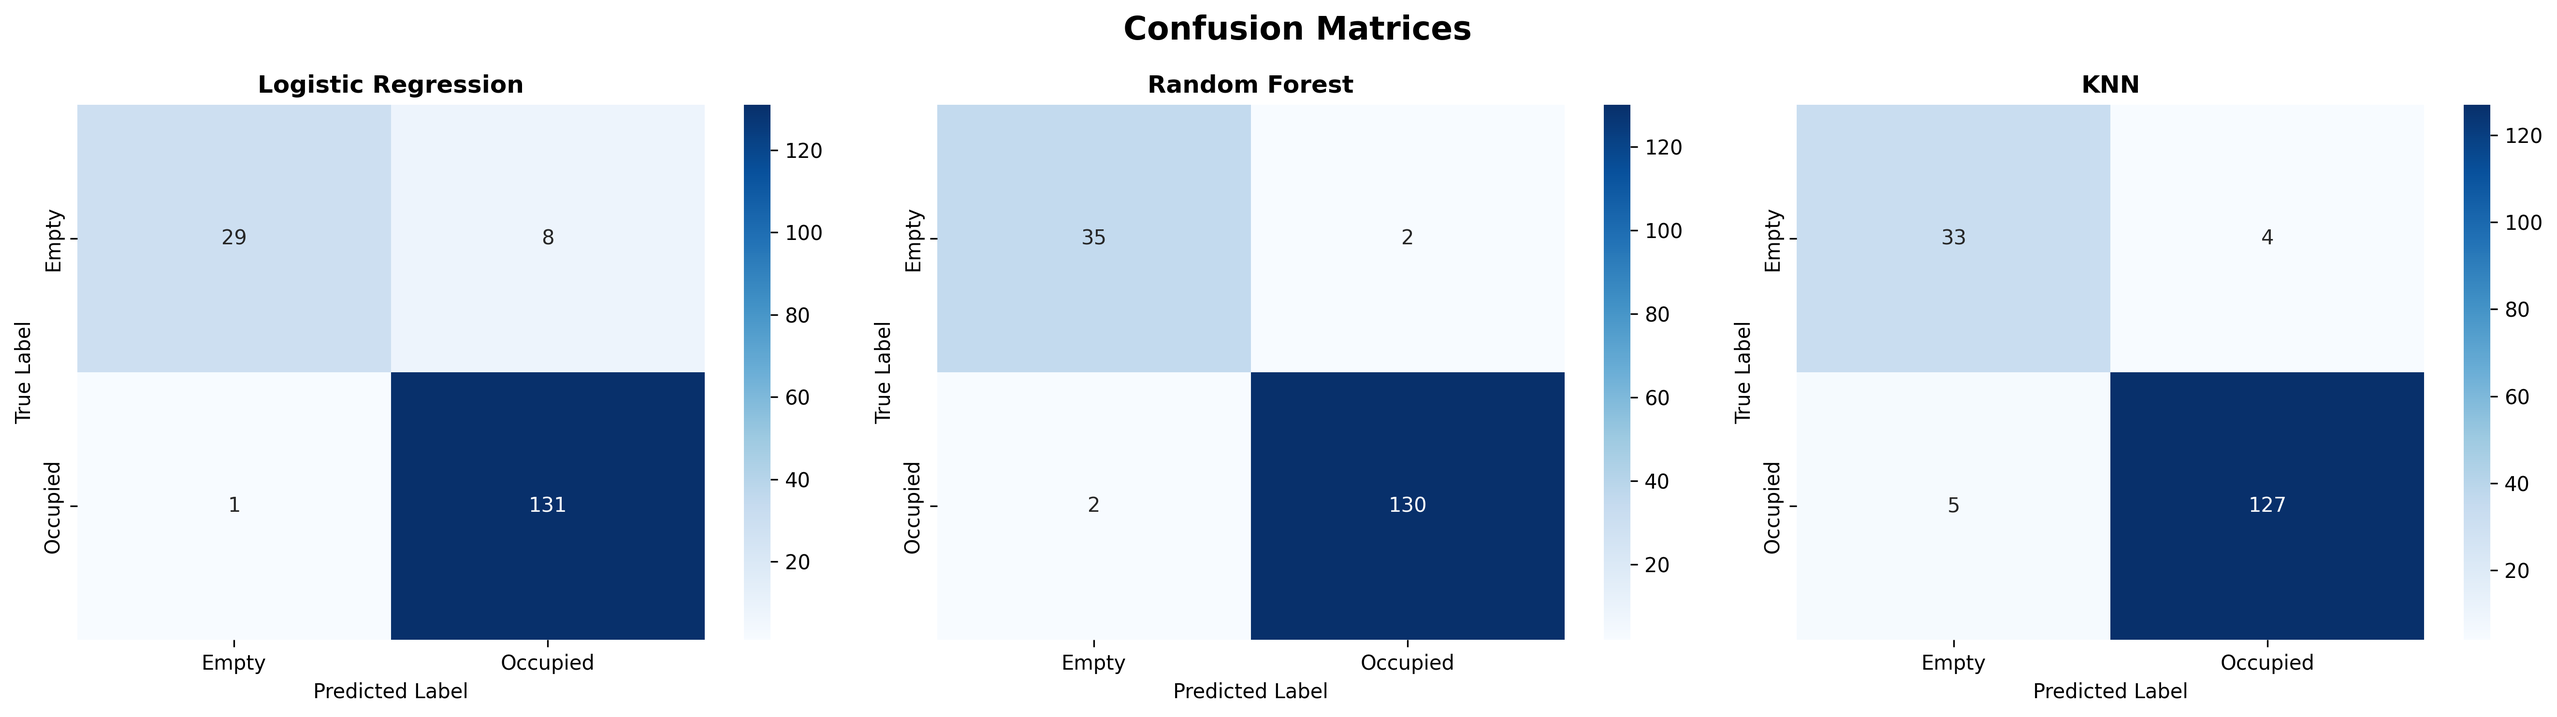
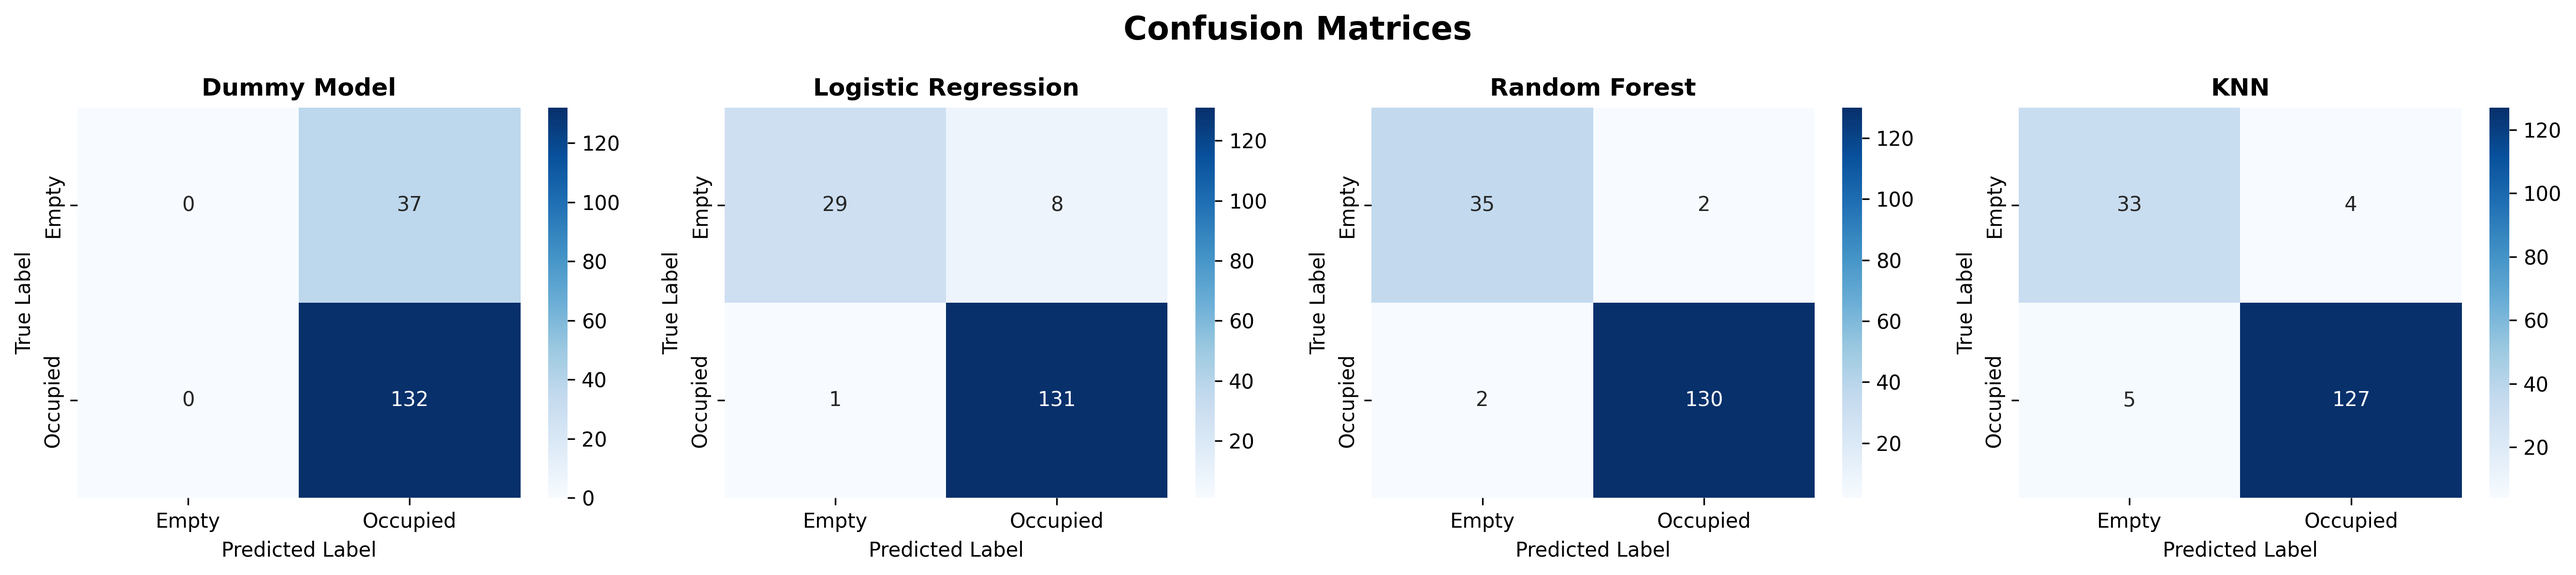
Added dummy classifier

diff --git a/Project/ml_and_evaluation.py b/Project/ml_and_evaluation.py
@@ -3,6 +3,7 @@ import numpy as np
 from sklearn.linear_model import LogisticRegression
 from sklearn.ensemble import RandomForestClassifier
 from sklearn.neighbors import KNeighborsClassifier
+from sklearn.dummy import DummyClassifier
 from sklearn.metrics import accuracy_score, precision_score, recall_score, f1_score
 from sklearn.metrics import confusion_matrix
 import matplotlib.pyplot as plt
@@ -59,6 +60,17 @@ class OccupancyMLTrainer:
     def train_models(self, best_params=None):
         """Train all ML models (optionally with tuned hyperparameters)"""
         print("\nTraining ML models:")
+
+        # Dummy Model
+        print("0-Training Dummy Model...")
+        dum_model = DummyClassifier(strategy='most_frequent', random_state=42) # This model always predicts the most common/majority class label, in this case 1
+        dum_model.fit(self.X_train, self.y_train)
+        self.models["Dummy Model"]=dum_model
+
+        y_pred_train = dum_model.predict(self.X_train)
+        y_pred_test = dum_model.predict(self.X_test)
+        print(f"Dummy model is trained, for baseline perofrmance.\
+              \nAccuracy -> {accuracy_score(self.y_test, y_pred_test)} F1-Score -> {f1_score(self.y_test, y_pred_test)}")
 
         # Logistic Regression
         print("1-Training Logistic Regression...")
@@ -118,7 +130,8 @@ class OccupancyMLTrainer:
                     n_jobs=-1
                 ),
                 'params': {
-                    'max_depth': [6, 8, 10],
+                    'max_depth': [6, 8, 10, 12],
+                    # 'n_estimators': [30, 50, 70],
                     'min_samples_split': [2, 5],
                     'min_samples_leaf': [1, 2]
                 }
@@ -427,7 +440,7 @@ class OccupancyMLTrainer:
         plt.close()
         
         # 2.Confusion matrices
-        fig, axes = plt.subplots(1, 3, figsize=(18, 5))
+        fig, axes = plt.subplots(1, 4, figsize=(18, 4))
         fig.suptitle('Confusion Matrices', fontsize=16, fontweight='bold')
         
         for idx, (model_name, results) in enumerate(self.results.items()):
@@ -492,6 +505,8 @@ class OccupancyMLTrainer:
 
             plt.tight_layout()
             plt.savefig(f'{output_dir}/feature_importance.png', dpi=300, bbox_inches='tight')
+            total_importance = top_features['importance'].sum()
+            print(f"Sum of top 15 feature importances: {total_importance:.4f}")
             print(f"Saved feature_importance.png.")
             plt.close()
 
